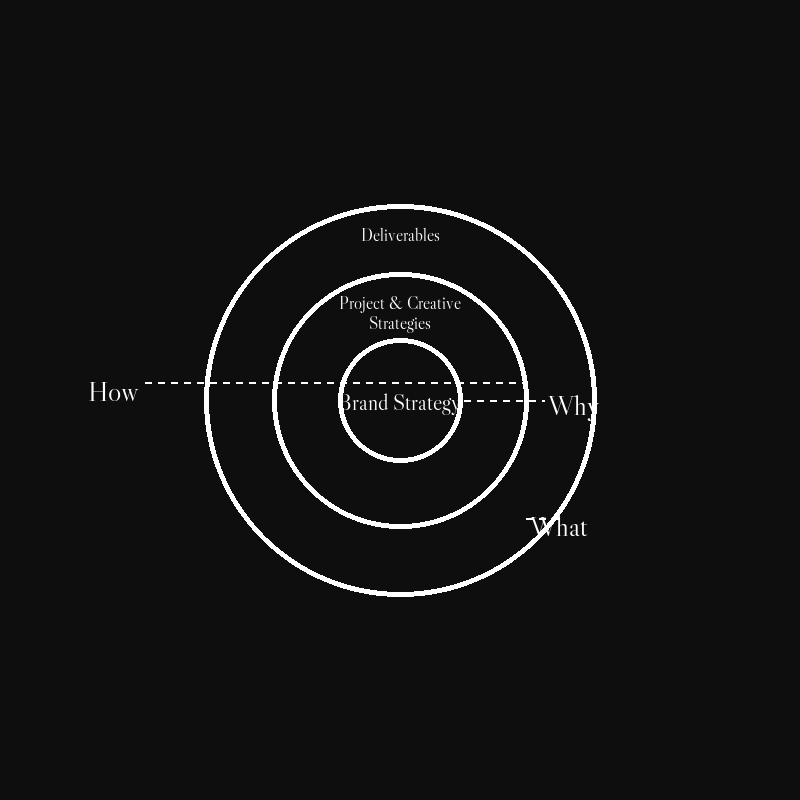
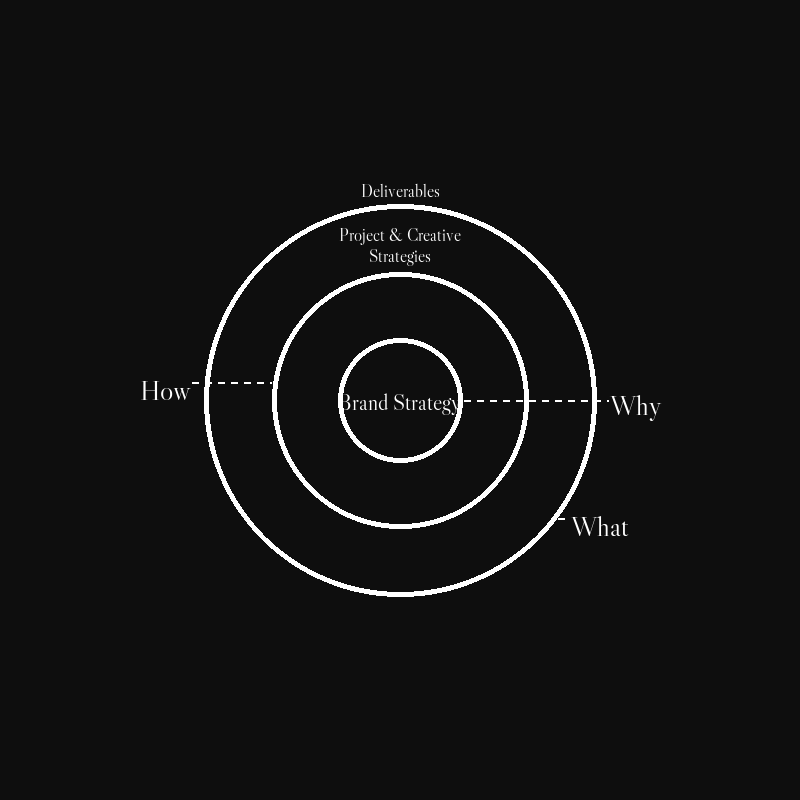
Move Brand Strategy diagram labels outside circle strokes.
Position ring titles and Why/How/What labels clear of the white circle lines, and bump the thumbnail cache version.

diff --git a/templates.html b/templates.html
@@ -1447,7 +1447,7 @@
     <script>
         (function () {
             var QAVA_TEMPLATES = [
-                { tag: "Strategy",     title: "Brand Strategy", excerpt: "Build a brand that customers remember, trust, and choose. Learn the strategic foundations behind the world's most successful companies.", version: "1.0", likes: 1180, stage: ["startup", "enterprise", "nonprofit"], cats: ["strategy"], link: "/templates/brandstrategy", image: "/template-brandstrategy.png?v=2" },
+                { tag: "Strategy",     title: "Brand Strategy", excerpt: "Build a brand that customers remember, trust, and choose. Learn the strategic foundations behind the world's most successful companies.", version: "1.0", likes: 1180, stage: ["startup", "enterprise", "nonprofit"], cats: ["strategy"], link: "/templates/brandstrategy", image: "/template-brandstrategy.png?v=3" },
                 { tag: "Strategy",     title: "The Beachhead Strategy", excerpt: "The biggest companies didn't win by serving everyone on day one. They found a narrow beachhead, became indispensable, then expanded into everything else.", version: "1.0", likes: 1290, stage: ["startup", "enterprise", "nonprofit"], cats: ["strategy"], link: "/templates/beachheadstrategy", image: "/template-beachhead.png" },
                 { tag: "Strategy",     title: "The Ideal Customer Profile", excerpt: "The most important decision an entrepreneur makes is who the business is for. Define your ICP and every other choice gets clearer.", version: "1.0", likes: 1460, stage: ["startup", "enterprise", "nonprofit"], cats: ["strategy"], link: "/templates/idealcustomerprofile", image: "/template-icp.png" },
                 { tag: "Planning",     title: "Project Plan",       excerpt: "A clear, phased plan to take any initiative from kickoff to delivery.",   version: "2.4", likes: 1840, stage: ["startup", "enterprise", "nonprofit"], cats: ["transformation", "project-management"] },

diff --git a/templates/brandstrategy/index.html b/templates/brandstrategy/index.html
@@ -409,7 +409,7 @@
       <h1 class="story-title">Brand Strategy</h1>
       <p class="story-subtitle">Build a brand that customers remember, trust, and choose. Learn the strategic foundations behind the world's most successful companies.</p>
       <div class="story-thumb">
-        <img src="/template-brandstrategy.png?v=2" alt="Brand Strategy diagram">
+        <img src="/template-brandstrategy.png?v=3" alt="Brand Strategy diagram">
       </div>
     </header>
 
